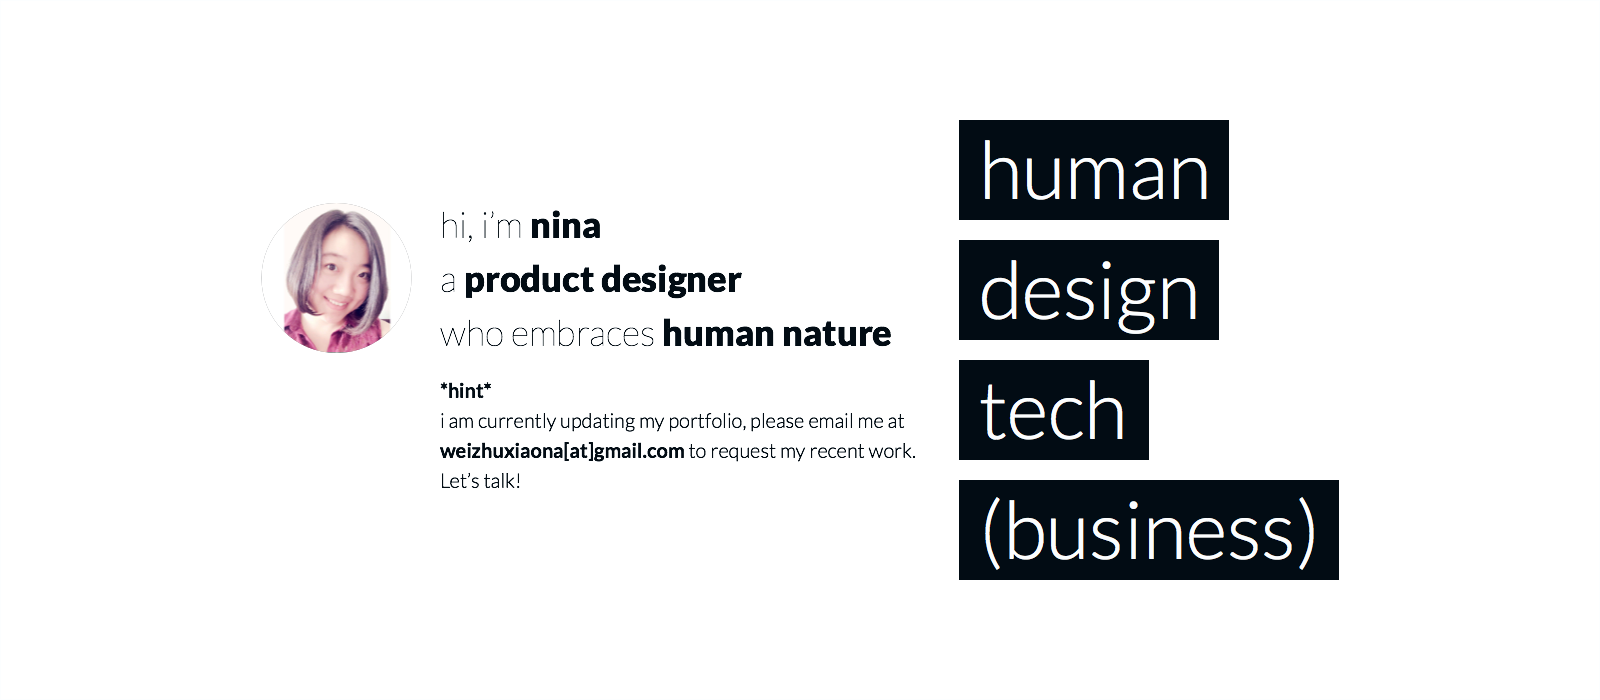
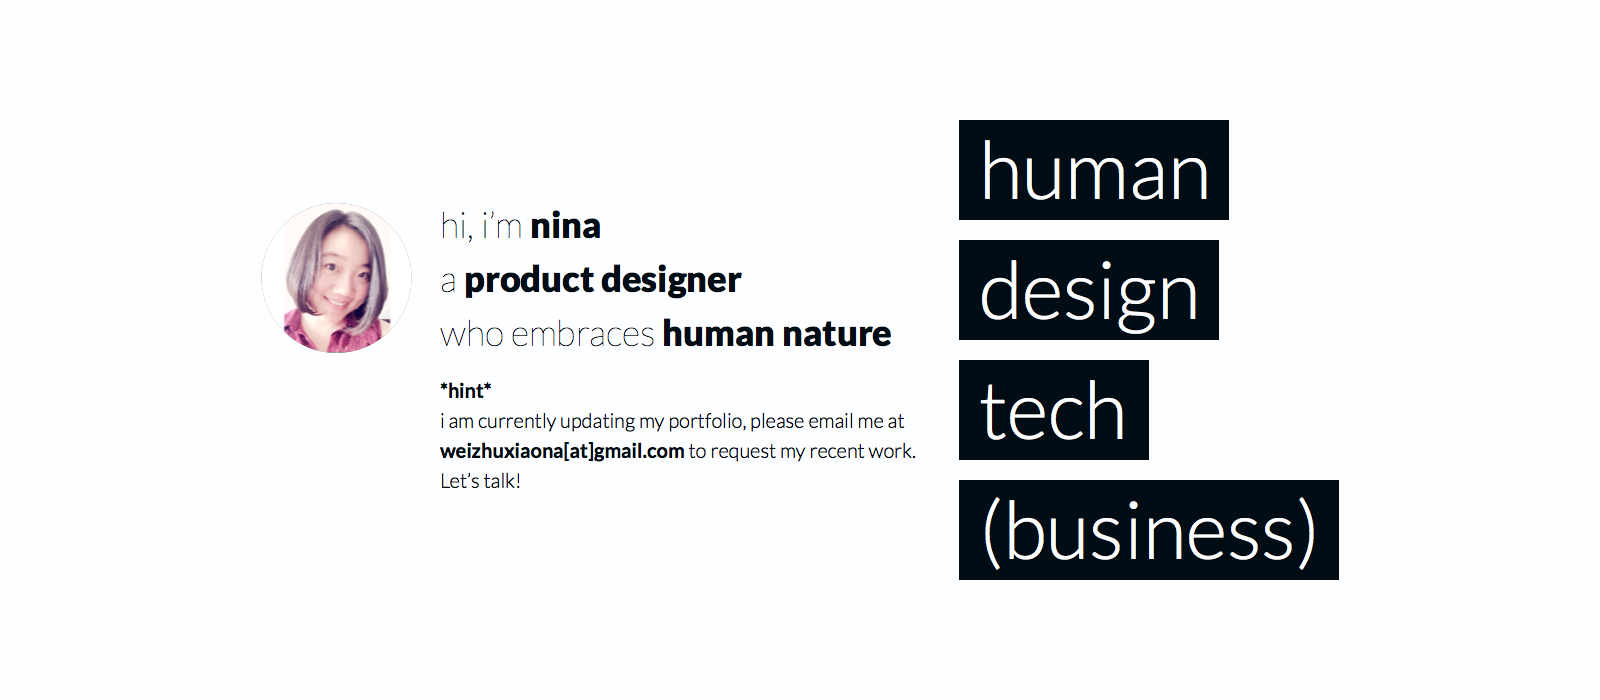
edit header image

diff --git a/index.html b/index.html
@@ -22,8 +22,8 @@
 			<div class="row no-gutter">
 				<div class="col-sm-12" >
 					<img src="img/header.png" class="img-responsive center-block">
-					<div class="col-sm-12">
-					    <div class="col-sm-10 col-sm-offset-2">
+					<div class="col-sm-12" style="background-color: #FCFEFF">
+					    <div class="col-sm-12 col-sm-offset-1">
 							<div class="col-sm-2">
 								<h4><a href="mailto:weizhuxiaona@gmail.com" target="_blank">email</a></h4>
 							</div>
